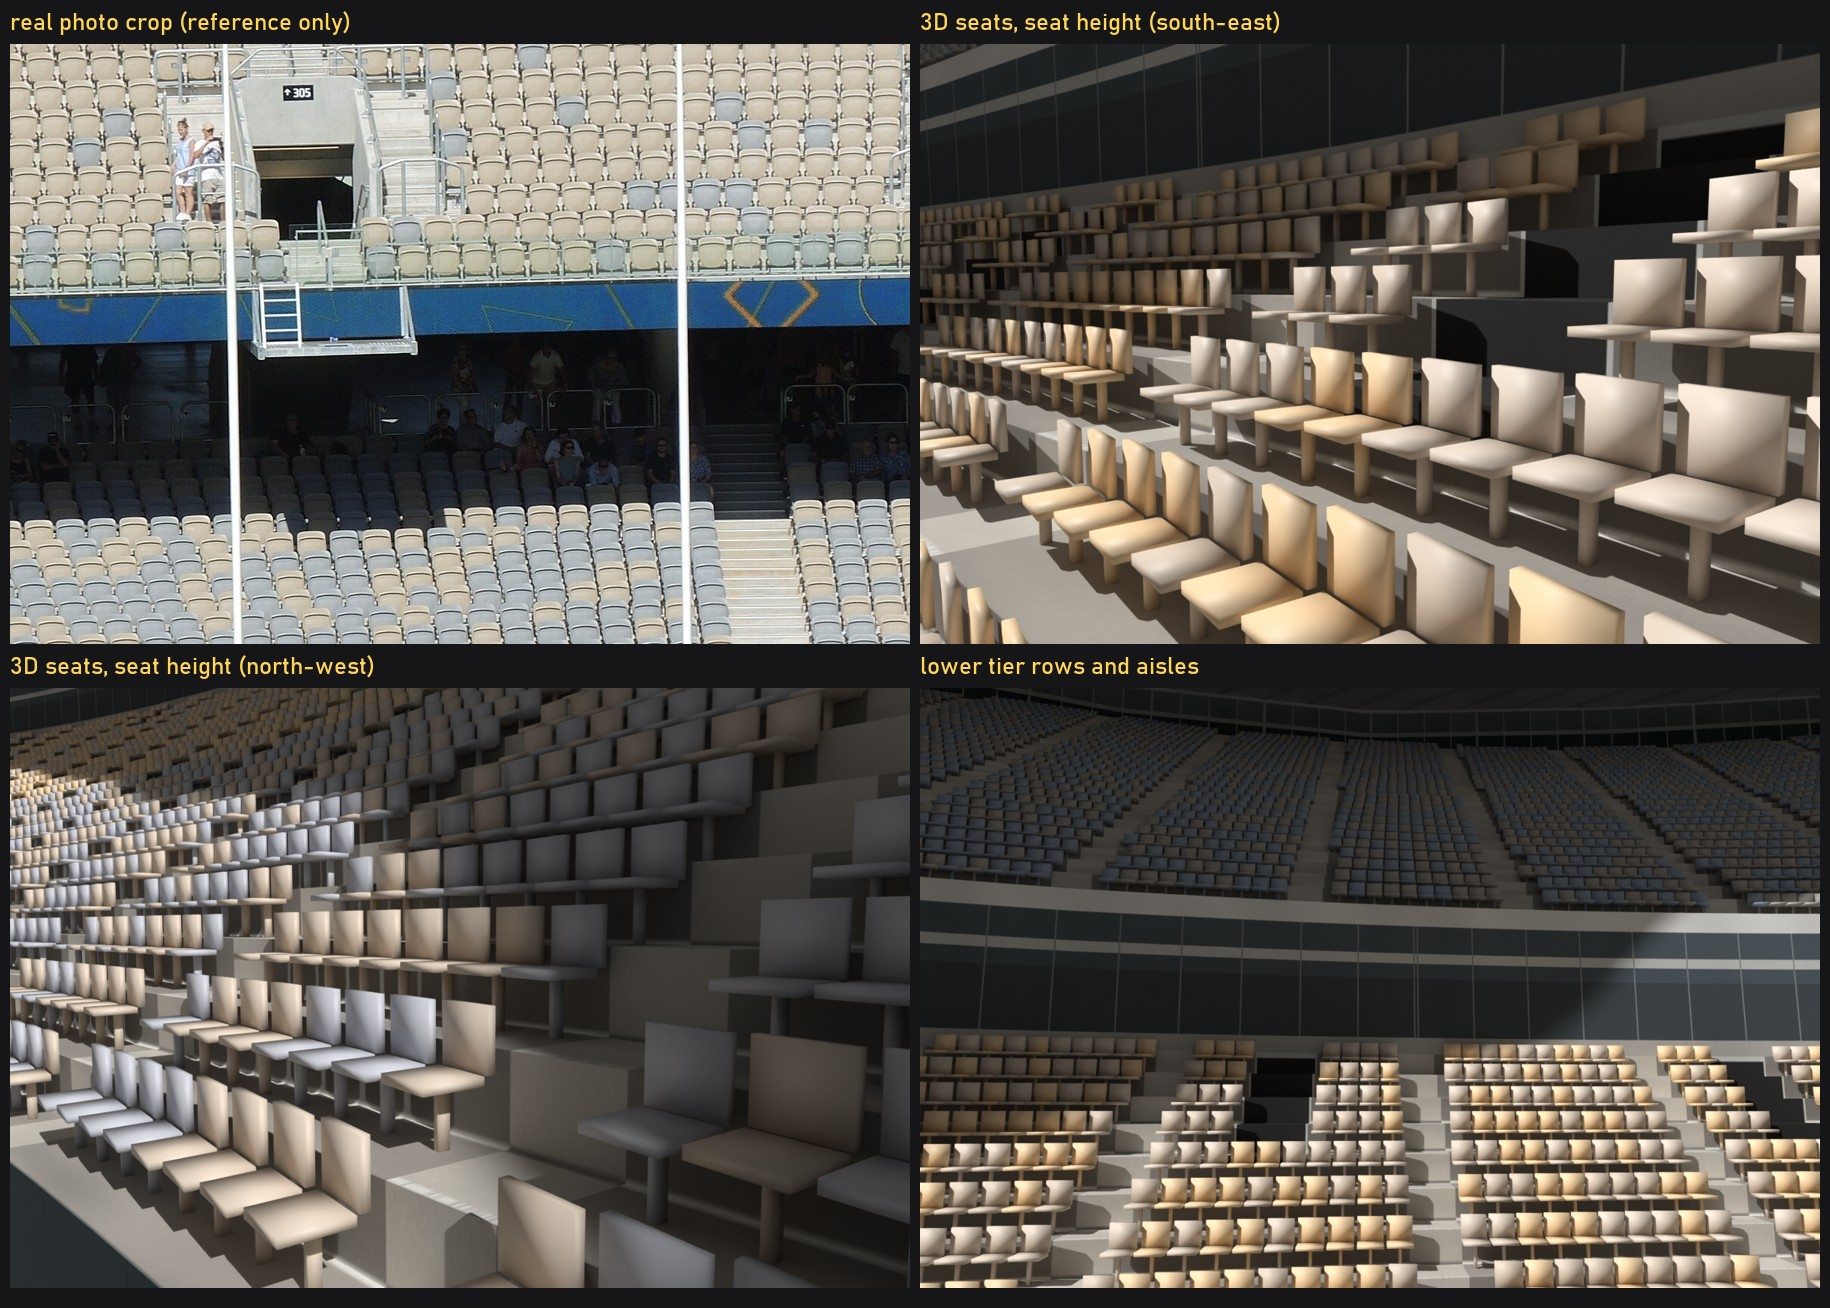
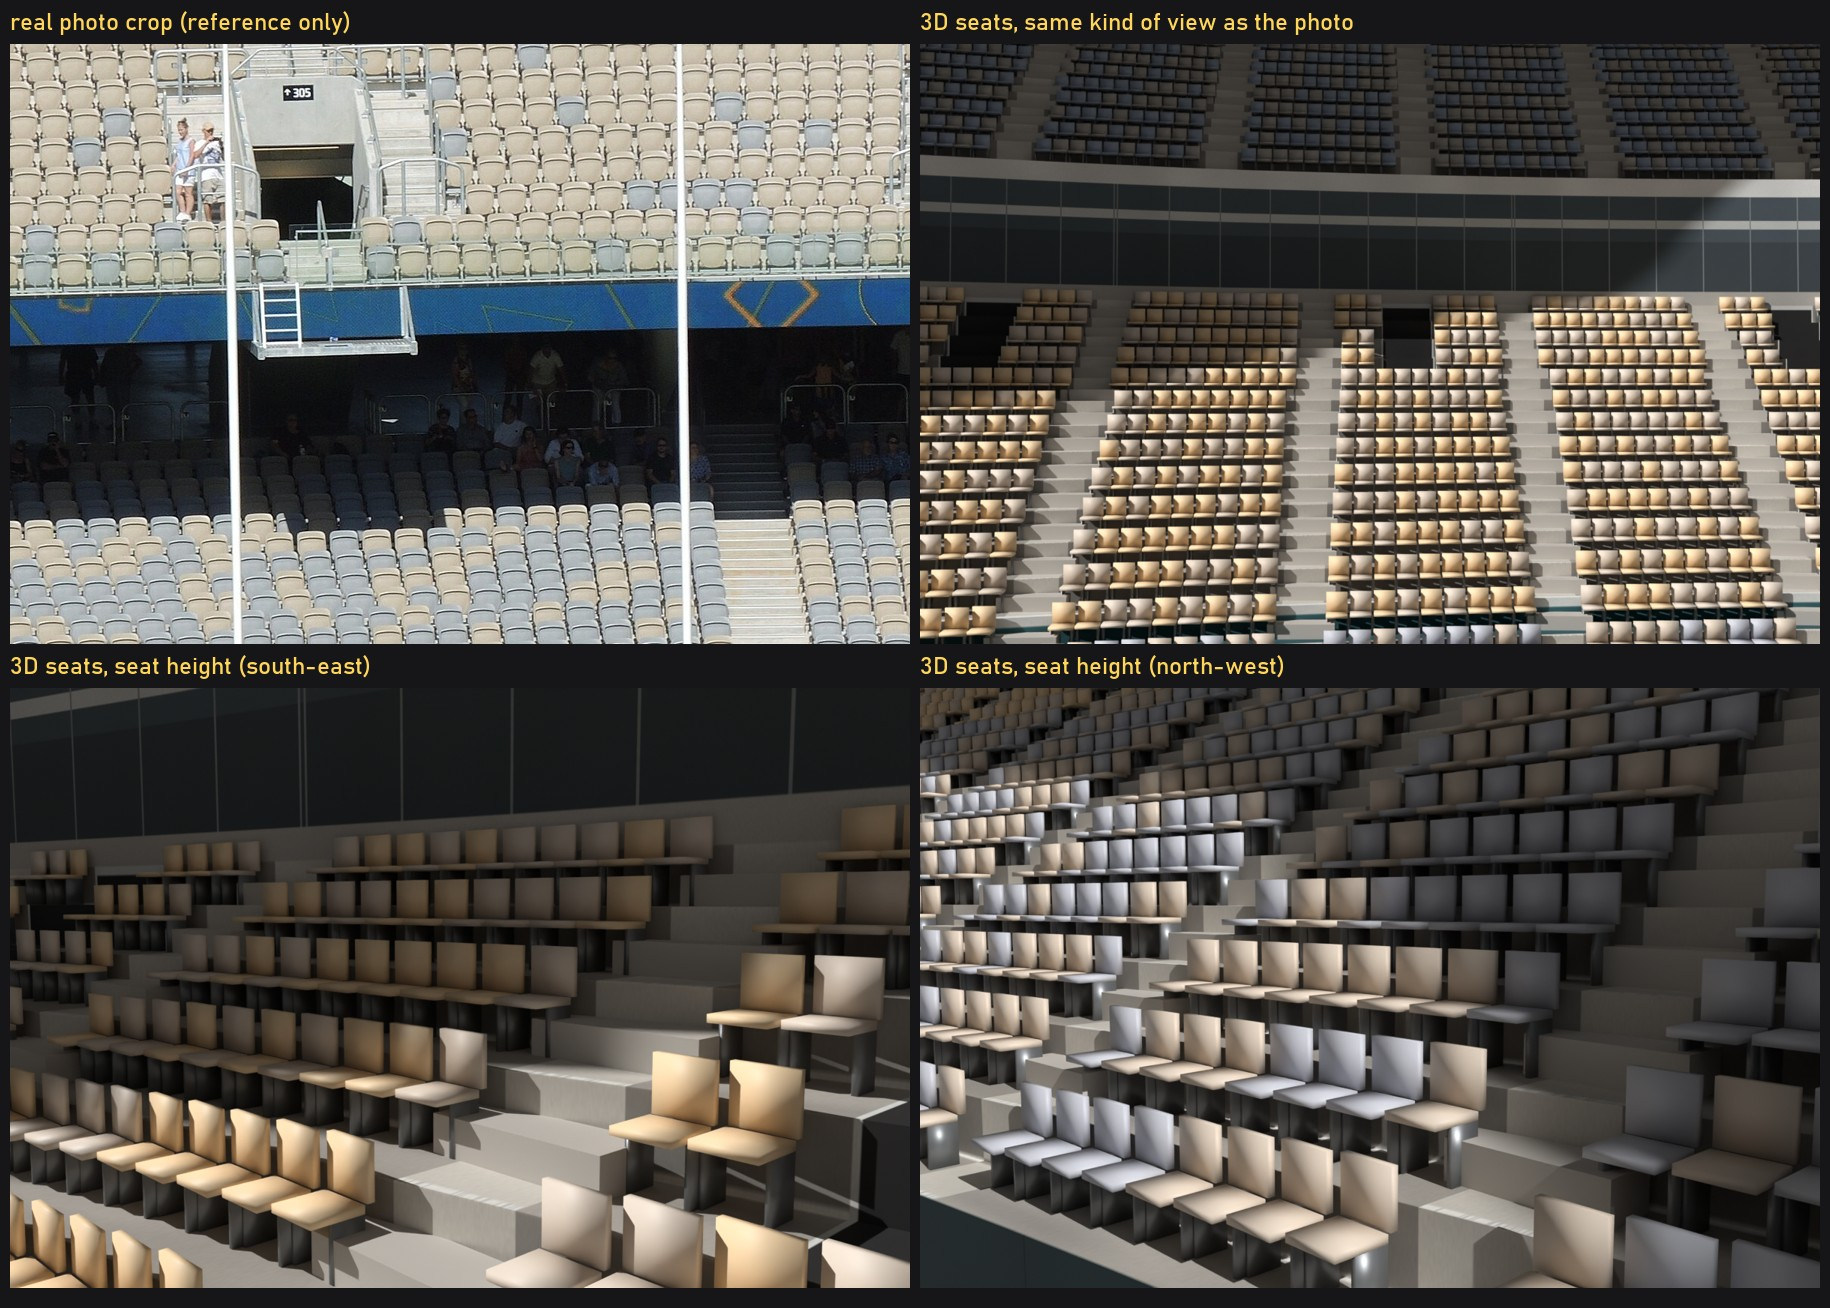
Optus seats: on their treads at even heights, packed rows, aisle steps, shared steel legs

diff --git a/.claude/review/optus/scripts/build.py b/.claude/review/optus/scripts/build.py
@@ -401,28 +401,52 @@ _TC={'lo':(216,208,203),'mid':(246,221,191),'up':(178,182,188)};_AX=np.array((0.
 def _bx(x0,x1,y0,y1,z0,z1):
     return [(x0,y0,z0),(x1,y0,z0),(x1,y1,z0),(x0,y1,z0),(x0,y0,z1),(x1,y0,z1),(x1,y1,z1),(x0,y1,z1)]
 _BF=[[0,3,2,1],[4,5,6,7],[0,1,5,4],[1,2,6,5],[2,3,7,6],[3,0,4,7]]
-_T=np.array(_bx(-0.22,0.22,-0.22,0.20,0.40,0.46)+_bx(-0.22,0.22,-0.30,-0.24,0.46,0.86)+_bx(-0.025,0.025,-0.12,-0.04,0.0,0.40))
-_TF=[[f+o for f in ff] for o in (0,8,16) for ff in _BF]
-SEAT=[];SMAT=[];_depth=[]
+# pan, back, and two side standards from tread to pan (stadium seats stand on side frames, not a centre stalk)
+_T=np.array(_bx(-0.22,0.22,-0.22,0.20,0.40,0.46)+_bx(-0.22,0.22,-0.30,-0.24,0.46,0.86)+_bx(-0.25,-0.21,-0.22,0.04,0.0,0.40)+_bx(0.21,0.25,-0.22,0.04,0.0,0.40))
+_TF=[[f+o for f in ff] for o in (0,8,16,24) for ff in _BF]
+SEAT=[];SMAT=[];_depth=[];AST=[]
 def _seats(Ra,za,Rb,zb,rowsn,tier_of,aoff,vom):
     for r in range(1,rowsn+1):
         t0=(r-1)/rowsn;t1=r/rowsn;pz=za+(zb-za)*t0
         Rf=[Ra[i].lerp(Rb[i],t0) for i in range(N)];Rk=[Ra[i].lerp(Rb[i],t1) for i in range(N)]
-        R=[Rf[i].lerp(Rk[i],0.55) for i in range(N)];_depth.append((Rk[0]-Rf[0]).length)
-        cs=arcs(R);sc_=cs[N]/SL[N];tn=tier_of(r-1);s=0.3
-        while s<cs[N]-0.3:
-            i=max(0,min(N-1,max(k for k in range(N) if cs[k]<=s) if s>0 else 0));f=(s-cs[i])/max(cs[i+1]-cs[i],1e-9)
-            bay=(SU[i]+(SU[i+1]-SU[i])*f)*14.8;m=(bay-aoff)%7.4;d=min(m,7.4-m)*sc_
-            if d<0.6*sc_+0.22:s+=0.1;continue
-            bm_=(bay%14.8)
-            if vom and pz+0.01>=10.2*ZK and 3.2-0.25<=bm_<=5.0+0.25:s+=0.1;continue
-            j=(i+1)%N;p=R[i].lerp(R[j],f);fw=-(p-oc);fw.z=0;fw.normalize()
-            SEAT.append((p.x,p.y,pz,fw.x,fw.y))
-            c=np.array(_TC[tn])/255*(1.0 if (r-1)%2 else 0.96)+(1 if _R.random()<0.5 else -1)*0.075*_R.uniform(0.7,1.0)*_AX
-            SMAT.append(c);s+=0.5
+        R=[Rf[i]+(Rk[i]-Rf[i])*(1-0.38/max((Rk[i]-Rf[i]).length,0.5)) for i in range(N)];_depth.append((Rk[0]-Rf[0]).length)   # seat back 8 cm off the riser behind
+        cs=np.array(arcs(R));sc_=cs[N]/SL[N];tn=tier_of(r-1);bayv=np.array(SU)*14.8
+        # gaps along this row (aisles every 7.4 bay metres, the vomitory on the top rows), then each block between two
+        # gaps is packed edge to edge, centred, so every block ends on the same radial line in every row
+        gaps=[]
+        for c in np.arange(aoff-7.4,bayv[-1]+7.5,7.4):gaps.append((np.interp(c-0.6,bayv,cs),np.interp(c+0.6,bayv,cs)))
+        if r>1:   # aisle stairs: a half step on each row's tread (the rows rise ~0.6 m, so a real aisle has two steps per row)
+            for c in np.arange(aoff,bayv[-1]-0.1,7.4):
+                s=float(np.interp(c,bayv,cs));i=int(min(N-1,max(0,np.searchsorted(cs,s,side='right')-1)));f=(s-cs[i])/max(cs[i+1]-cs[i],1e-9);j=(i+1)%N
+                AST.append((Rf[i].lerp(Rf[j],f),Rk[i].lerp(Rk[j],f),pz,(zb-za)/rowsn,0.6*sc_))
+        if vom and pz+0.01>=10.2*ZK:
+            for b0 in np.arange(0,bayv[-1],14.8):gaps.append((np.interp(b0+3.2,bayv,cs),np.interp(b0+5.0,bayv,cs)))
+        gaps=sorted((max(0.0,a),min(cs[N],b)) for a,b in gaps if b>0 and a<cs[N])
+        edges=[0.0]+[x for g in gaps for x in g]+[cs[N]]
+        for a,b in zip(edges[0::2],edges[1::2]):
+            L=b-a-0.04;n=int((L+0.06)//0.5)
+            for k in range(n):
+                s=(a+b)/2+(k-(n-1)/2)*0.5;i=int(min(N-1,max(0,np.searchsorted(cs,s,side='right')-1)));f=(s-cs[i])/max(cs[i+1]-cs[i],1e-9)
+                j=(i+1)%N;p=R[i].lerp(R[j],f);fw=-(p-oc);fw.z=0;fw.normalize()
+                SEAT.append((p.x,p.y,pz,fw.x,fw.y))
+                c=np.array(_TC[tn])/255*(1.0 if (r-1)%2 else 0.96)+(1 if _R.random()<0.5 else -1)*0.075*_R.uniform(0.7,1.0)*_AX
+                SMAT.append(c)
 _seats(L0,1.6*ZK,L1,12.0*ZK,24,lambda r:'lo' if 1.6+10.4*(r+1)/24<=6.4+0.01 else 'mid',0.0,True)
 _seats(L1,15.0*ZK,L3,31.5*ZK,30,lambda r:'up',3.7,False)
 print('seats',len(SEAT),'tread depth min/max %.2f %.2f'%(min(_depth),max(_depth)))
+# drop any seat whose spot is taken by other structure (roof columns, walls): ray down from 1.2 m over the pan's
+# back, middle and front must land on the seat's own tread
+from mathutils.bvhtree import BVHTree
+_bv=BVHTree.FromObject(ob,bpy.context.evaluated_depsgraph_get());_keep=[]
+for x,y,z,fx,fy in SEAT:
+    ok=True
+    for d in (-0.28,0.0,0.18):
+        for sx in (-0.2,0.2):
+            q=Vector((x+fx*d+fy*sx,y+fy*d-fx*sx,z+1.2));h=_bv.ray_cast(q,Vector((0,0,-1)),2.0)
+            if h[0] is None or abs(h[0].z-z)>0.02:ok=False
+    _keep.append(ok)
+print('seats dropped (spot taken)',_keep.count(False))
+SEAT=[s for s,k in zip(SEAT,_keep) if k];SMAT=[s for s,k in zip(SMAT,_keep) if k]
 SE=np.array(SEAT,float);SC=np.clip(np.array(SMAT),0,1)
 # six plastics: each tier colour pushed grey-blue or tan (mean of its seats), so the export stays plain materials
 _TL=[];_TLc=[]
@@ -433,15 +457,38 @@ _TLc=np.clip(np.array(_TLc),0,1)
 mi=np.argmin(((SC[:,None,:]-_TLc[None,:,:])**2).sum(2),1)
 fwd=np.c_[SE[:,3:5],np.zeros(len(SE))];side=np.c_[fwd[:,1],-fwd[:,0],np.zeros(len(SE))]
 V=(SE[:,None,:3]+_T[None,:,0,None]*side[:,None,:]+_T[None,:,1,None]*fwd[:,None,:]+_T[None,:,2,None]*np.array([0,0,1.0])).reshape(-1,3)
+# block ends: a seat with no neighbour 0.5 m to one side gets that leg moved in 3 cm, flush with the pan
+import mathutils as _mu
+_kd=_mu.kdtree.KDTree(len(SE))
+for i,p in enumerate(SE[:,:3]):_kd.insert(p,i)
+_kd.balance();V=V.reshape(len(SE),len(_T),3)
+for i in range(len(SE)):
+    for sgn,box in ((-1,2),(1,3)):
+        q=SE[i,:3]+sgn*0.5*side[i]
+        if _kd.find(q)[2]>0.1:V[i,box*8:box*8+8]-=sgn*0.03*side[i]
+V=V.reshape(-1,3)
 nT=len(_T);F=(np.array(_TF)[None,:,:]+(np.arange(len(SE))*nT)[:,None,None]).reshape(-1,4)
 sme=bpy.data.meshes.new('seats3d');sme.vertices.add(len(V));sme.vertices.foreach_set('co',V.ravel())
 sme.loops.add(F.size);sme.loops.foreach_set('vertex_index',F.ravel());sme.polygons.add(len(F))
-sme.polygons.foreach_set('loop_start',np.arange(0,F.size,4));sme.polygons.foreach_set('material_index',np.repeat(mi,len(_TF)))
+sme.polygons.foreach_set('loop_start',np.arange(0,F.size,4));sme.polygons.foreach_set('material_index',np.where(np.tile(np.arange(len(_TF))>=len(_TF)//2,len(SE)),len(_TL),np.repeat(mi,len(_TF))))
 sme.update();sme.validate()
 for (tn,sgn),c in zip(_TL,_TLc):
     sm=bpy.data.materials.new('seat_%s_%s'%(tn,'blue' if sgn>0 else 'tan'));sm.use_nodes=True;sb=sm.node_tree.nodes['Principled BSDF']
     sb.inputs['Base Color'].default_value=(*[float(x)**2.2 for x in c],1);sb.inputs['Roughness'].default_value=0.55;sme.materials.append(sm)
+sm=bpy.data.materials.new('seat_legs_steel');sm.use_nodes=True;sb=sm.node_tree.nodes['Principled BSDF'];sb.inputs['Base Color'].default_value=(0.24,0.25,0.26,1);sb.inputs['Metallic'].default_value=0.6;sb.inputs['Roughness'].default_value=0.45;sme.materials.append(sm)
 sob=bpy.data.objects.new('seats3d',sme);bpy.context.scene.collection.objects.link(sob)
+# aisle half steps: box from mid-tread to the riser, half a riser high, 1.2 m wide (bay scale), concrete
+AV=[];AF=[]
+for fr,bk,z0,h,w in AST:
+    fw=bk-fr;fw.z=0;d=fw.length;fw.normalize();sd=Vector((fw.y,-fw.x,0));m=fr+fw*(d*0.5)
+    o=len(AV);AV+=[tuple(v) for v in _bx(-w,w,0,d*0.5,0,h*0.5)]
+    for k in range(o,o+8):
+        x,y,z=AV[k];q=m+sd*x+fw*y;AV[k]=(q.x,q.y,z0+z)
+    AF+=[[f+o for f in ff] for ff in _BF]
+ame=bpy.data.meshes.new('aisle_steps');ame.from_pydata(AV,[],AF);ame.update()
+am=bpy.data.materials.new('aisle_step');am.use_nodes=True;ab=am.node_tree.nodes['Principled BSDF']
+ab.inputs['Base Color'].default_value=(*[(c/255)**2.2 for c in (196,190,182)],1);ab.inputs['Roughness'].default_value=0.85;ame.materials.append(am)
+bpy.context.scene.collection.objects.link(bpy.data.objects.new('aisle_steps',ame));print('aisle steps',len(AST))
 json.dump({'n':len(SEAT),'seats':[[round(float(x),3) for x in s] for s in SEAT[::50]]},open(os.path.join(here,'seats_sample.json'),'w'))
 bpy.ops.wm.save_as_mainfile(filepath=os.path.abspath(blend))
 bpy.ops.object.select_all(action='SELECT')

diff --git a/.claude/review/optus/READY.md b/.claude/review/optus/READY.md
@@ -16,13 +16,14 @@ and photo o2 (south-west, without it). No crowd was in the model; nothing remove
   writes `views_tex.json`; `scripts/views.py` renders it; `scripts/board_tex.py` makes the boards.
 
 ## 3D seats (2026-11-20)
-Real empty seats replace the painted ones: 58,291 seats, each a pan, a back and a pedestal (0.44 m wide at 0.5 m pitch,
-so a 6 cm gap between seats), one per row on the ~1.0 m concrete treads of both tiers (24 + 30 rows). Aisles and the
-vomitories stay where the stand texture paints them (every 7.4 m of a 14.8 m bay, upper tier offset 3.7 m), so they
-run straight up each tier. Colours are the texture pass's tier colours (lower cream, middle tan, upper grey), each seat
-pushed toward grey-blue or tan at random, as in the empty-seat photos; six plain plastic materials. The painted seats
-are gone from `tex/seats.png`: risers and treads are bare concrete with worn nosings. No crowd.
-- `proof/seat_board.jpg`: the photo crop beside two seat-height close-ups and the lower tier's rows and aisles.
+Real empty seats replace the painted ones: 56,473 seats, each a pan, a back and steel side legs (0.44 m pans at 0.5 m
+pitch; neighbours share one grey steel leg under each gap, block-end legs flush with the pan). Every seat sits on its
+own tread, back 8 cm off the riser, at the row's height (raycast: 0 off-tread, 54 rows = 54 heights); blocks packed
+edge to edge between straight aisles with a half step on every row; 260 seats that clashed with structure dropped.
+Aisles every 7.4 m of a 14.8 m bay (upper tier offset 3.7 m) plus the vomitories. Colours: the tier colours (lower
+cream, middle tan, upper grey), each seat pushed toward grey-blue or tan at random. Painted seats removed from
+`tex/seats.png` (bare concrete risers, worn nosings). No crowd.
+- `proof/seat_board.jpg`: the photo crop beside a photo-style view and two seat-height close-ups (SE, NW).
 - `proof/tex_board_1.jpg`: seats row re-rendered with the 3D seats.
 - Code: the seat block at the end of `scripts/build.py`; the riser repaint in `scripts/paint_tex.py` (rowband).
 
